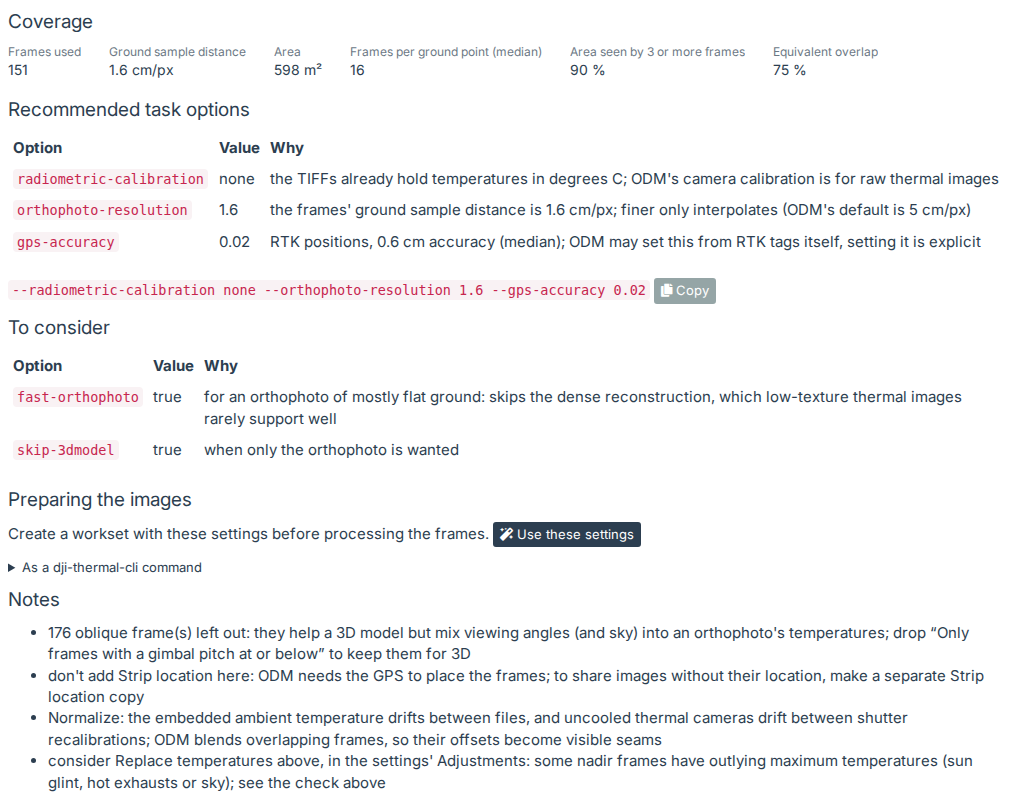
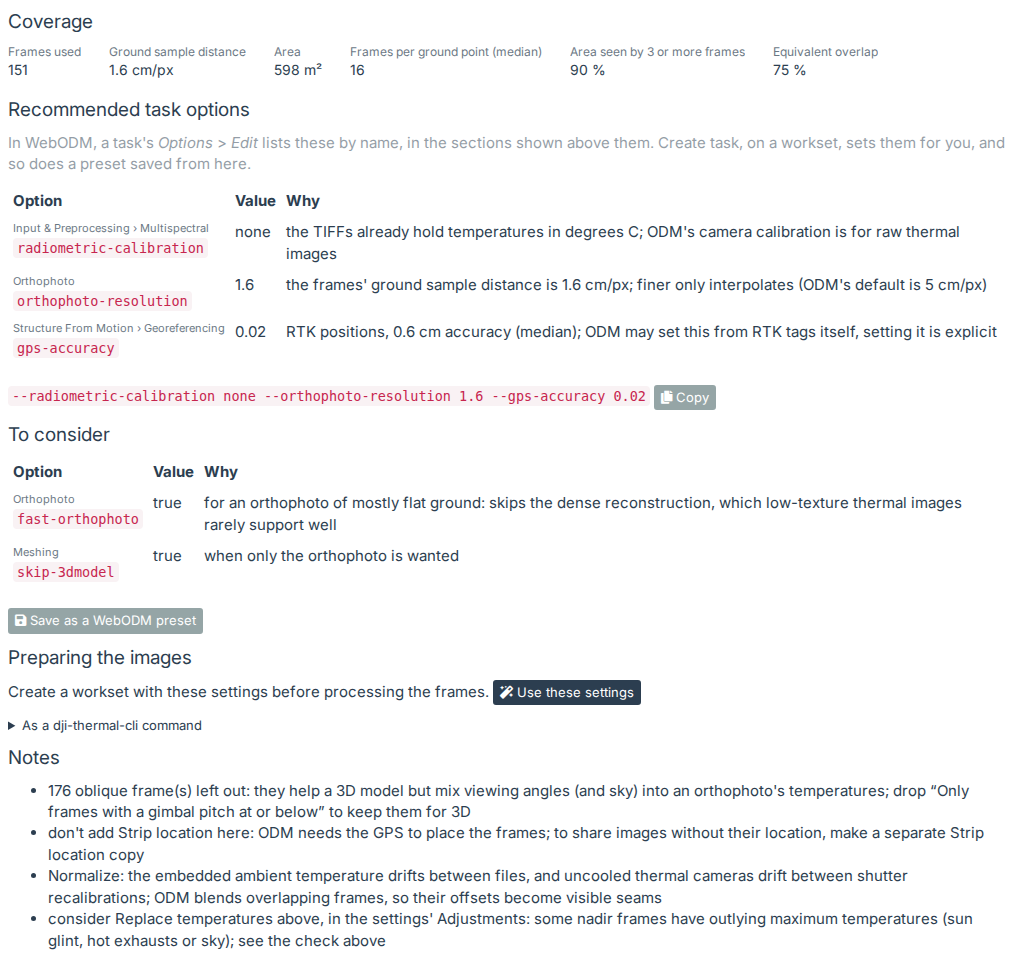
WebODM plan tab: each option's section in WebODM's task options, and Save as a WebODM preset
WebODM's options dialog lists options by their ODM names, so the plan's names were right but not where to find
them. Each option now shows its section (also in Create task's table), and the plan's options can be saved as a
preset through WebODM's presets API, with WebODM's Default preset's options ticked so nothing is lost; a preset of
the same name is replaced once confirmed.

diff --git a/dji-thermal/public/dataset.js b/dji-thermal/public/dataset.js
@@ -428,8 +428,50 @@
         return '<table class="table table-condensed ta-options"><thead><tr><th>Option</th><th>Value</th><th>Why</th></tr></thead><tbody>' +
             keys.map(function (k) {
                 var o = options[k];
-                return "<tr><td><code>" + esc(k) + "</code></td><td>" + esc(o.value) + "</td><td>" + esc(o.reason) + "</td></tr>";
+                return "<tr><td>" + core.optionHtml(k) + "</td><td>" + esc(o.value) + "</td><td>" + esc(o.reason) + "</td></tr>";
             }).join("") + "</tbody></table>";
+    }
+
+    // The plan's ODM options, [{name, value, reason, recommended}]: the recommended ones first (conversion_tasks.plan_options)
+    function planOptions(p) {
+        var out = [];
+        [["recommended", true], ["consider", false]].forEach(function (g) {
+            Object.keys((p && p[g[0]]) || {}).forEach(function (name) {
+                var o = p[g[0]][name];
+                out.push({name: name, value: o.value, reason: o.reason || "", recommended: g[1]});
+            });
+        });
+        return out;
+    }
+
+    // The options of a preset made from the plan: the plan's, then those of WebODM's Default preset (defaults: its
+    // options, [{name, value}]) the plan doesn't set, ticked, so that picking the preset loses none of them
+    function presetOptions(p, defaults) {
+        var out = planOptions(p);
+        (defaults || []).forEach(function (o) {
+            if (out.some(function (x) { return x.name === o.name; })) return;
+            out.push({name: o.name, value: o.value, reason: "in WebODM's Default preset", recommended: true});
+        });
+        return out;
+    }
+
+    // The Save as a WebODM preset panel (info: {name, options}; draft: the fields as they were, to keep across a redraw)
+    function presetHtml(info, draft) {
+        var d = draft || {};
+        return '<div class="ta-task-head"><strong>New WebODM preset</strong>: pick it in a task\'s Options, in place of Default</div>' +
+            conversionsModule.optionsFormHtml(info.options, d.options) +
+            '<div class="ta-task-actions"><input type="text" class="form-control input-sm" name="preset-name" maxlength="255" value="' +
+            esc(d.name !== undefined ? d.name : info.name) + '" placeholder="Name" aria-label="Preset name">' +
+            '<button type="button" class="btn btn-primary btn-xs" data-act="preset-save"><i class="fa fa-save"></i> Save preset</button> ' +
+            '<button type="button" class="btn btn-default btn-xs" data-act="preset-close">Close</button></div><div class="ta-task-message"></div>';
+    }
+
+    // The preset panel's fields: {draft (presetHtml's), data ({name, options}, to send), problem (what stops it, or null)}
+    function readPresetForm(el, info) {
+        var name = el.querySelector('[name="preset-name"]').value;
+        var o = conversionsModule.readOptions(el, info.options);
+        var problem = o.problem || (name.trim() ? null : "Give the preset a name.") || (o.options.length ? null : "Tick at least one option.");
+        return {draft: {name: name, options: o.draft}, data: {name: name.trim(), options: o.options}, problem: problem};
     }
 
     // The WebODM plan tab: how well the frames cover the ground, the task options to use and how to prepare the images
@@ -454,9 +496,13 @@
         return '<h4>Coverage</h4><dl class="ta-figures">' + figures.map(function (f) {
                 return "<div><dt>" + esc(f[0]) + "</dt><dd>" + esc(f[1]) + "</dd></div>";
             }).join("") + "</dl>" +
-            "<h4>Recommended task options</h4>" + optionsTable(p.recommended) +
+            "<h4>Recommended task options</h4>" +
+            '<p class="text-muted">In WebODM, a task\'s <em>Options</em> &gt; <em>Edit</em> lists these by name, in the sections shown above them. ' +
+            "Create task, on a workset, sets them for you, and so does a preset saved from here.</p>" + optionsTable(p.recommended) +
             (args ? '<p class="ta-odm-args"><code>' + esc(args) + "</code> " + copy("the options", args) + "</p>" : "") +
             "<h4>To consider</h4>" + optionsTable(p.consider) +
+            (planOptions(p).length ? '<p><button type="button" class="btn btn-default btn-xs" id="ta-plan-preset" title="Save these options as a preset, to pick in a new task\'s Options">' +
+                '<i class="fa fa-save"></i> Save as a WebODM preset</button></p><div class="ta-conversion-task" id="ta-plan-preset-panel"></div>' : "") +
             "<h4>Preparing the images</h4>" +
             "<p>Create a workset with these settings before processing the frames." +
             (p.process_args && canConvert ? ' <button type="button" class="btn btn-primary btn-xs" id="ta-plan-convert" title="Open the Worksets tab with these settings">' +
@@ -493,6 +539,7 @@
         var $ = function (i) { return doc.getElementById(i); };
         var dataset = null, view = {show: "all", sort: "path", desc: false, filter: ""}, tab = "convert", tabChosen = false, timer = null, uploading = false;
         var filesKey = null;
+        var planShown = null, preset = null;    // the WebODM plan tab as drawn; its preset panel, when open: {info, draft}
         try { view.thumbs = root.localStorage && root.localStorage.getItem(THUMBS_KEY) === "1" ? thumbsUrl : null; } catch (e) { view.thumbs = null; }
         try { view.hover = !!root.localStorage && root.localStorage.getItem(HOVER_KEY) === "1"; } catch (e) { view.hover = false; }
         view.selected = [];
@@ -578,10 +625,18 @@
                 if (key !== filesKey) renderFiles();
                 filesKey = key;
                 $("ta-tab-problems").innerHTML = problemsHtml(a, d.can_change);
-                $("ta-tab-webodm").innerHTML = planHtml(a, d.can_change);
+                // Redrawn only when it changes, not to lose the preset panel's fields
+                var plan = planHtml(a, d.can_change);
+                if (plan !== planShown) {
+                    $("ta-tab-webodm").innerHTML = plan;
+                    planShown = plan;
+                    preset = null;
+                }
             } else {
                 ["files", "problems", "webodm"].forEach(function (t) { $("ta-tab-" + t).innerHTML = ""; });
                 filesKey = null;
+                planShown = null;
+                preset = null;
             }
             renderTabs();
 
@@ -845,11 +900,75 @@
             if (!e.target.closest) return;
             var button = e.target.closest("button[data-copy]");
             if (button) return copyText(button.getAttribute("data-copy"), button, "Copy");
+            if (e.target.closest("#ta-plan-preset")) return openPreset();
+            var act = (e.target.closest("button[data-act]") || {getAttribute: function () { return null; }}).getAttribute("data-act");
+            if (act === "preset-save") return savePreset();
+            if (act === "preset-close") {
+                preset = null;
+                return renderPreset();
+            }
             if (e.target.closest("#ta-plan-convert") && conversions.usePlan()) {
                 showTab("convert");
                 if ($("ta-convert-settings").scrollIntoView) $("ta-convert-settings").scrollIntoView();
             }
         });
+
+        // Save as a WebODM preset: a panel of the plan's options and those of WebODM's Default preset, saved through
+        // WebODM's presets API, replacing (once asked) a preset of the user's with the same name
+        var PRESETS = API.replace(/plugins\/.*$/, "presets/");
+
+        function renderPreset() {
+            var el = $("ta-plan-preset-panel");
+            if (el) el.innerHTML = !preset ? "" : preset.info ? presetHtml(preset.info, preset.draft) : '<p class="text-muted">Loading…</p>';
+        }
+
+        function presetMessage(text, cls) {
+            var m = $("ta-plan-preset-panel") && $("ta-plan-preset-panel").querySelector(".ta-task-message");
+            if (!m) return;
+            m.className = "ta-task-message" + (cls ? " " + cls : "");
+            m.innerHTML = text;
+        }
+
+        function openPreset() {
+            var plan = (dataset.analysis || {}).webodm;
+            preset = {info: null, draft: null};
+            renderPreset();
+            return fetchFn(PRESETS, {credentials: "same-origin"}).then(core.readJson).then(function (r) {
+                if (!preset) return;
+                if (!r.ok || !Array.isArray(r.data)) {
+                    preset = null;
+                    $("ta-plan-preset-panel").innerHTML = '<p class="text-danger">' + esc(core.errorText(r.data, "Could not read WebODM's presets.")) + "</p>";
+                    return;
+                }
+                var defaults = r.data.filter(function (x) { return x.system && x.name === "Default"; })[0];
+                preset.info = {name: "DJI Thermal: " + dataset.name, options: presetOptions(plan, defaults ? defaults.options : [])};
+                renderPreset();
+            });
+        }
+
+        function savePreset() {
+            var el = $("ta-plan-preset-panel");
+            if (!el || !preset || !preset.info) return;
+            var form = readPresetForm(el, preset.info);
+            preset.draft = form.draft;
+            if (form.problem) return presetMessage(esc(form.problem), "text-danger");
+            var btn = el.querySelector('[data-act="preset-save"]');
+            btn.disabled = true;
+            return fetchFn(PRESETS, {credentials: "same-origin"}).then(core.readJson).then(function (r) {
+                if (!r.ok || !Array.isArray(r.data)) return r;
+                var same = r.data.filter(function (x) { return !x.system && x.name === form.data.name; })[0];
+                if (!same) return send(PRESETS, "POST", form.data);
+                return core.ask(doc, "Replace the preset?", 'You already have a preset named "' + form.data.name + '". Replace its options with these?',
+                                "Replace", "danger").then(function (yes) {
+                    return yes ? send(PRESETS + same.id + "/", "PATCH", {options: form.data.options}) : null;
+                });
+            }).then(function (r) {
+                btn.disabled = false;
+                if (!r) return;
+                if (!r.ok) return presetMessage(esc(core.errorText(r.data, "Could not save the preset.")), "text-danger");
+                presetMessage('<i class="fa fa-check"></i> Saved &ldquo;' + esc(r.data.name) + "&rdquo;: pick it in a new task's <em>Options</em>.", "text-success");
+            });
+        }
 
         // To the clipboard, the button saying so (an icon's tick for a moment); without one (or refused), a dialog to
         // copy it from
@@ -963,7 +1082,8 @@
         return load();
     }
 
-    var api = {captureTime: captureTime, median: core.median, overview: overview, summaryRows: summaryRows, duration: duration, overviewHtml: overviewHtml, flagsByFile: flagsByFile,
+    var api = {planOptions: planOptions, presetOptions: presetOptions, presetHtml: presetHtml, readPresetForm: readPresetForm,
+               captureTime: captureTime, median: core.median, overview: overview, summaryRows: summaryRows, duration: duration, overviewHtml: overviewHtml, flagsByFile: flagsByFile,
                sortRows: core.sortRows, fileRows: fileRows, detailRows: detailRows, viewerSrc: viewerSrc, viewerItems: viewerItems, detailHtml: detailHtml, filesHtml: filesHtml, stepsHtml: stepsHtml, settingsWords: settingsWords, findingMessage: findingMessage, problemsHtml: problemsHtml, planHtml: planHtml, sharingHtml: sharingHtml, init: init};
     root.ThermalAnalyzerDataset = api;
     if (typeof module !== "undefined" && module.exports) module.exports = api;

diff --git a/dji-thermal/public/conversions.js b/dji-thermal/public/conversions.js
@@ -422,20 +422,8 @@
                     esc(info.process_args.join(" ")) + '"><i class="fa fa-magic"></i> New workset with the plan\'s settings</button>' : "") + "</div>";
         }
         var d = draft || {};
-        var picked = d.options || null;
         if (info.options.length) {
-            html += '<table class="table table-condensed ta-task-options"><thead><tr><th></th><th>Option</th><th>Value</th><th>Why</th></tr></thead><tbody>' +
-                info.options.map(function (o, i) {
-                    var was = picked && picked[o.name];
-                    var on = picked ? !!was : o.recommended;
-                    var v = was && was.value !== undefined ? was.value : o.value;
-                    return '<tr' + (o.recommended ? "" : ' class="ta-task-consider"') + '><td><input type="checkbox" name="task-option" value="' + i + '"' +
-                        (on ? " checked" : "") + ' aria-label="' + esc(o.name) + '"></td><td><code>' + esc(o.name) + "</code>" +
-                        (o.recommended ? "" : ' <span class="text-muted">to consider</span>') + "</td><td>" +
-                        (o.value === true ? '<span class="text-muted">on</span>' : '<input type="text" class="form-control input-sm" name="task-value-' + i +
-                            '" value="' + esc(optionValue(v)) + '" aria-label="' + esc(o.name) + ' value">') +
-                        "</td><td>" + esc(o.reason) + "</td></tr>";
-                }).join("") + "</tbody></table>";
+            html += optionsFormHtml(info.options, d.options);
         } else {
             html += '<p class="text-muted">The WebODM plan has no options: the task has ODM\'s defaults.</p>';
         }
@@ -448,21 +436,44 @@
         return html;
     }
 
-    // The task panel's fields: {draft (taskHtml's), data (to send), problem (what stops it, or null)}
-    function readTaskForm(el, info) {
-        var get = function (name) { return el.querySelector('[name="' + name + '"]'); };
-        var draft = {name: get("task-name").value, options: {}};
-        var options = [], problem = null;
-        info.options.forEach(function (o, i) {
+    // ODM options to tick and edit (options: [{name, value, reason, recommended}], the recommended ones ticked; picked:
+    // readOptions' draft, to keep what was typed across a redraw)
+    function optionsFormHtml(options, picked) {
+        return '<table class="table table-condensed ta-task-options"><thead><tr><th></th><th>Option</th><th>Value</th><th>Why</th></tr></thead><tbody>' +
+            options.map(function (o, i) {
+                var was = picked && picked[o.name];
+                var on = picked ? !!was : o.recommended;
+                var v = was && was.value !== undefined ? was.value : o.value;
+                return '<tr' + (o.recommended ? "" : ' class="ta-task-consider"') + '><td><input type="checkbox" name="task-option" value="' + i + '"' +
+                    (on ? " checked" : "") + ' aria-label="' + esc(o.name) + '"></td><td>' + core.optionHtml(o.name) +
+                    (o.recommended ? "" : ' <span class="text-muted">to consider</span>') + "</td><td>" +
+                    (o.value === true ? '<span class="text-muted">on</span>' : '<input type="text" class="form-control input-sm" name="task-value-' + i +
+                        '" value="' + esc(optionValue(v)) + '" aria-label="' + esc(o.name) + ' value">') +
+                    "</td><td>" + esc(o.reason) + "</td></tr>";
+            }).join("") + "</tbody></table>";
+    }
+
+    // optionsFormHtml's fields: {draft (by name: {value}, or null when unticked), options ([{name, value}] ticked),
+    // problem (what stops them, or null)}
+    function readOptions(el, options) {
+        var draft = {}, ticked = [], problem = null;
+        options.forEach(function (o, i) {
             var box = el.querySelector('input[name="task-option"][value="' + i + '"]');
-            var v = o.value === true ? true : get("task-value-" + i).value.trim();
+            var v = o.value === true ? true : el.querySelector('[name="task-value-' + i + '"]').value.trim();
             if (typeof o.value === "number" && v !== "" && !isNaN(Number(v))) v = Number(v);
-            draft.options[o.name] = box.checked ? {value: v} : null;
+            draft[o.name] = box.checked ? {value: v} : null;
             if (!box.checked) return;
             if (v === "") problem = problem || "Give " + o.name + " a value, or untick it.";
-            options.push({name: o.name, value: v});
+            ticked.push({name: o.name, value: v});
         });
-        return {draft: draft, data: {name: draft.name.trim(), options: options}, problem: problem};
+        return {draft: draft, options: ticked, problem: problem};
+    }
+
+    // The task panel's fields: {draft (taskHtml's), data (to send), problem (what stops it, or null)}
+    function readTaskForm(el, info) {
+        var name = el.querySelector('[name="task-name"]').value;
+        var o = readOptions(el, info.options);
+        return {draft: {name: name, options: o.draft}, data: {name: name.trim(), options: o.options}, problem: o.problem};
     }
 
     var USE_TITLE = "Fill the settings form with this workset's settings, to start a new workset from them";
@@ -1044,7 +1055,7 @@
     var api = {recorded: recorded, settingsIn: settingsIn, formHtml: formHtml, readForm: readForm, formProblem: formProblem, planSettings: planSettings, statusLabel: statusLabel,
                differences: differences, chipsHtml: chipsHtml, markForm: markForm, resetSetting: resetSetting,
                mosaicHtml: mosaicHtml, actionsHtml: actionsHtml, listHtml: listHtml, parentHtml: parentHtml, taskStatusLabel: taskStatusLabel, tasksHtml: tasksHtml,
-               taskHtml: taskHtml, readTaskForm: readTaskForm, skipReasons: skipReasons, resultsHtml: resultsHtml, init: init};
+               taskHtml: taskHtml, readTaskForm: readTaskForm, optionsFormHtml: optionsFormHtml, readOptions: readOptions, skipReasons: skipReasons, resultsHtml: resultsHtml, init: init};
     root.ThermalAnalyzerConversions = api;
     if (typeof module !== "undefined" && module.exports) module.exports = api;
 })(typeof window !== "undefined" ? window : {});

diff --git a/dji-thermal/public/analyzer_core.js b/dji-thermal/public/analyzer_core.js
@@ -471,6 +471,26 @@
         return "Building the mosaics" + (stage ? ": " + stage : "") + "…";
     }
 
+    // Where WebODM's task options dialog (a task's Options > Edit) lists the ODM options the plugin suggests: the
+    // section, and the subsection when the section shows them (WebODM 3.3.2's EditPresetDialog.jsx, OPTION_GROUP_MAP)
+    var WEBODM_SECTIONS = {
+        "radiometric-calibration": "Input & Preprocessing › Multispectral",
+        "auto-boundary": "Bounds & Cropping",
+        "feature-quality": "Structure From Motion › Feature Extraction",
+        "min-num-features": "Structure From Motion › Feature Extraction",
+        "gps-accuracy": "Structure From Motion › Georeferencing",
+        "skip-3dmodel": "Meshing",
+        "dsm": "Digital Elevation Models › Outputs",
+        "orthophoto-resolution": "Orthophoto",
+        "fast-orthophoto": "Orthophoto"
+    };
+
+    // An ODM option's name, with its section in WebODM's dialog above it when known
+    function optionHtml(name) {
+        var section = WEBODM_SECTIONS[name];
+        return (section ? '<span class="ta-option-section">' + escapeHtml(section) + "</span>" : "") + "<code>" + escapeHtml(name) + "</code>";
+    }
+
     var api = {
         escapeHtml: escapeHtml, formatBytes: formatBytes, formatDate: formatDate, formatNumber: formatNumber,
         statusLabel: statusLabel, severityLabel: severityLabel, kindLabel: kindLabel, uploadName: uploadName,
@@ -479,7 +499,8 @@
         formatTemp: formatTemp, formatDelta: formatDelta, stageText: stageText, mosaicLabel: mosaicLabel,
         batchTimeout: batchTimeout, failedText: failedText, median: median, count: count, deleteText: deleteText, dialog: dialog, ask: ask, askName: askName,
         preferences: preferences, setPreferences: setPreferences, editPreferences: editPreferences, bindPreferences: bindPreferences,
-        setUserUnit: setUserUnit, savePalette: savePalette, migrateUnit: migrateUnit, paletteOptions: paletteOptions, sortRows: sortRows
+        setUserUnit: setUserUnit, savePalette: savePalette, migrateUnit: migrateUnit, paletteOptions: paletteOptions, sortRows: sortRows,
+        optionHtml: optionHtml
     };
     root.ThermalAnalyzerCore = api;
     if (root.document && root.fetch) {

diff --git a/dev/screenshots.js b/dev/screenshots.js
@@ -138,6 +138,13 @@ const SHOTS = {
         await p.waitForTimeout(500);
         return p.locator("#ta-tab-webodm");
     },
+    "dataset-preset": async (p, env) => {
+        await openDataset(p, env);
+        await p.click('#ta-tabs a[data-tab="webodm"]');
+        await p.click("#ta-plan-preset");
+        await p.waitForSelector('[data-act="preset-save"]');
+        return p.locator("#ta-plan-preset-panel");
+    },
     "mosaic-viewer": async (p, env) => {
         await openViewer(p, env);
         await hoverMap(p);

diff --git a/dji-thermal/public/analyzer.css b/dji-thermal/public/analyzer.css
@@ -214,6 +214,7 @@
 .ta-page .ta-task-options td{ vertical-align: middle; }
 .ta-page .ta-task-options input[type="text"]{ max-width: 140px; }
 .ta-page .ta-task-consider code{ opacity: .8; }
+.ta-page .ta-option-section{ display: block; font-size: 11px; opacity: .7; white-space: nowrap; }
 .ta-page .ta-task-actions{ display: flex; gap: 6px; align-items: center; flex-wrap: wrap; }
 .ta-page .ta-task-actions input[type="text"]{ max-width: 280px; }
 .ta-page .ta-task-actions select{ max-width: 260px; }

diff --git a/upcoming-changes.md b/upcoming-changes.md
@@ -5,7 +5,12 @@
 **Up next**
 - **The user's testing and polishing** (2026-10-30): bugs and polish they report go here, each fixed on its own
   branch. Publishing 1.0.0 waits for it.
-  - **The WebODM plan tab, usable without a command line** (the user, 2026-10-31), `plan-presets`. WebODM's task
+  - Done: **The WebODM plan tab, usable without a command line** (the user, 2026-10-31), `plan-presets`. Code:
+    `analyzer_core.optionHtml` (the sections), `conversions.optionsFormHtml` / `readOptions` (Create task's
+    tickboxes, shared), `dataset.js` (`presetOptions`, `presetHtml`, `readPresetForm`, the panel); docs: the
+    Analyzer quickstart, screenshots `dataset-plan` and `dataset-preset`. Jest 161 (no tests added); live check on
+    HomerunObliqueII: a preset saved, saved again with a box unticked (asked, replaced, still one), then deleted
+    (10 presets before and after). WebODM's task
     options dialog (a task's Options > Edit) lists options by their ODM name, in collapsible sections, so the names
     are right; what's missing is where to find them. Decided (the user):
     - **The section above each option's name**, in small grey text ("Input & Preprocessing › Multispectral";

diff --git a/docs/quickstart-analyzer.md b/docs/quickstart-analyzer.md
@@ -68,9 +68,17 @@ that sets it in the workset settings for you.
 ## 5. Read the WebODM plan
 
 The **WebODM plan** tab shows how well the frames cover the ground and which WebODM task options to use, with the
-reason for each.
+reason for each. Above each option's name is the section it's in, in WebODM's task options (a task's **Options** >
+**Edit**), where options are listed by the same names.
 
 ![The WebODM plan tab](images/dataset-plan.png)
+
+**Save as a WebODM preset** saves the options as a preset of yours, to pick in a new task's **Options** in place
+of Default. Tick the ones you want (the recommended ones are ticked, and so are the options of WebODM's own Default
+preset, so nothing it sets is lost), name it, and **Save preset**. If you already have a preset with that name,
+you're asked before it's replaced.
+
+![Save as a WebODM preset](images/dataset-preset.png)
 
 **Use these settings** fills in the workset settings the plan recommends. That's the next step:
 [Worksets, mosaics and a task](quickstart-worksets.md).

diff --git a/README.md b/README.md
@@ -107,7 +107,8 @@ Then:
 - **Problems**: what dji-thermal-cli found (errors, warnings, notes), each with what addresses it in the Workset
   Creation Settings' terms and the files it names (a file's value in its tooltip). Where one setting addresses it
   (Normalize, frames at or below −80°), a button sets it in the form on the Worksets tab.
-- **WebODM plan**: how well the frames cover the ground, the task options to use (to copy), **Use these settings**
+- **WebODM plan**: how well the frames cover the ground, the task options to use (each with its section in
+  WebODM's task options; to copy, or **Save as a WebODM preset** to pick in a new task), **Use these settings**
   for the workset that prepares the images (also as a dji-thermal-cli command, folded), and notes.
 - **Worksets**: see below.
 
